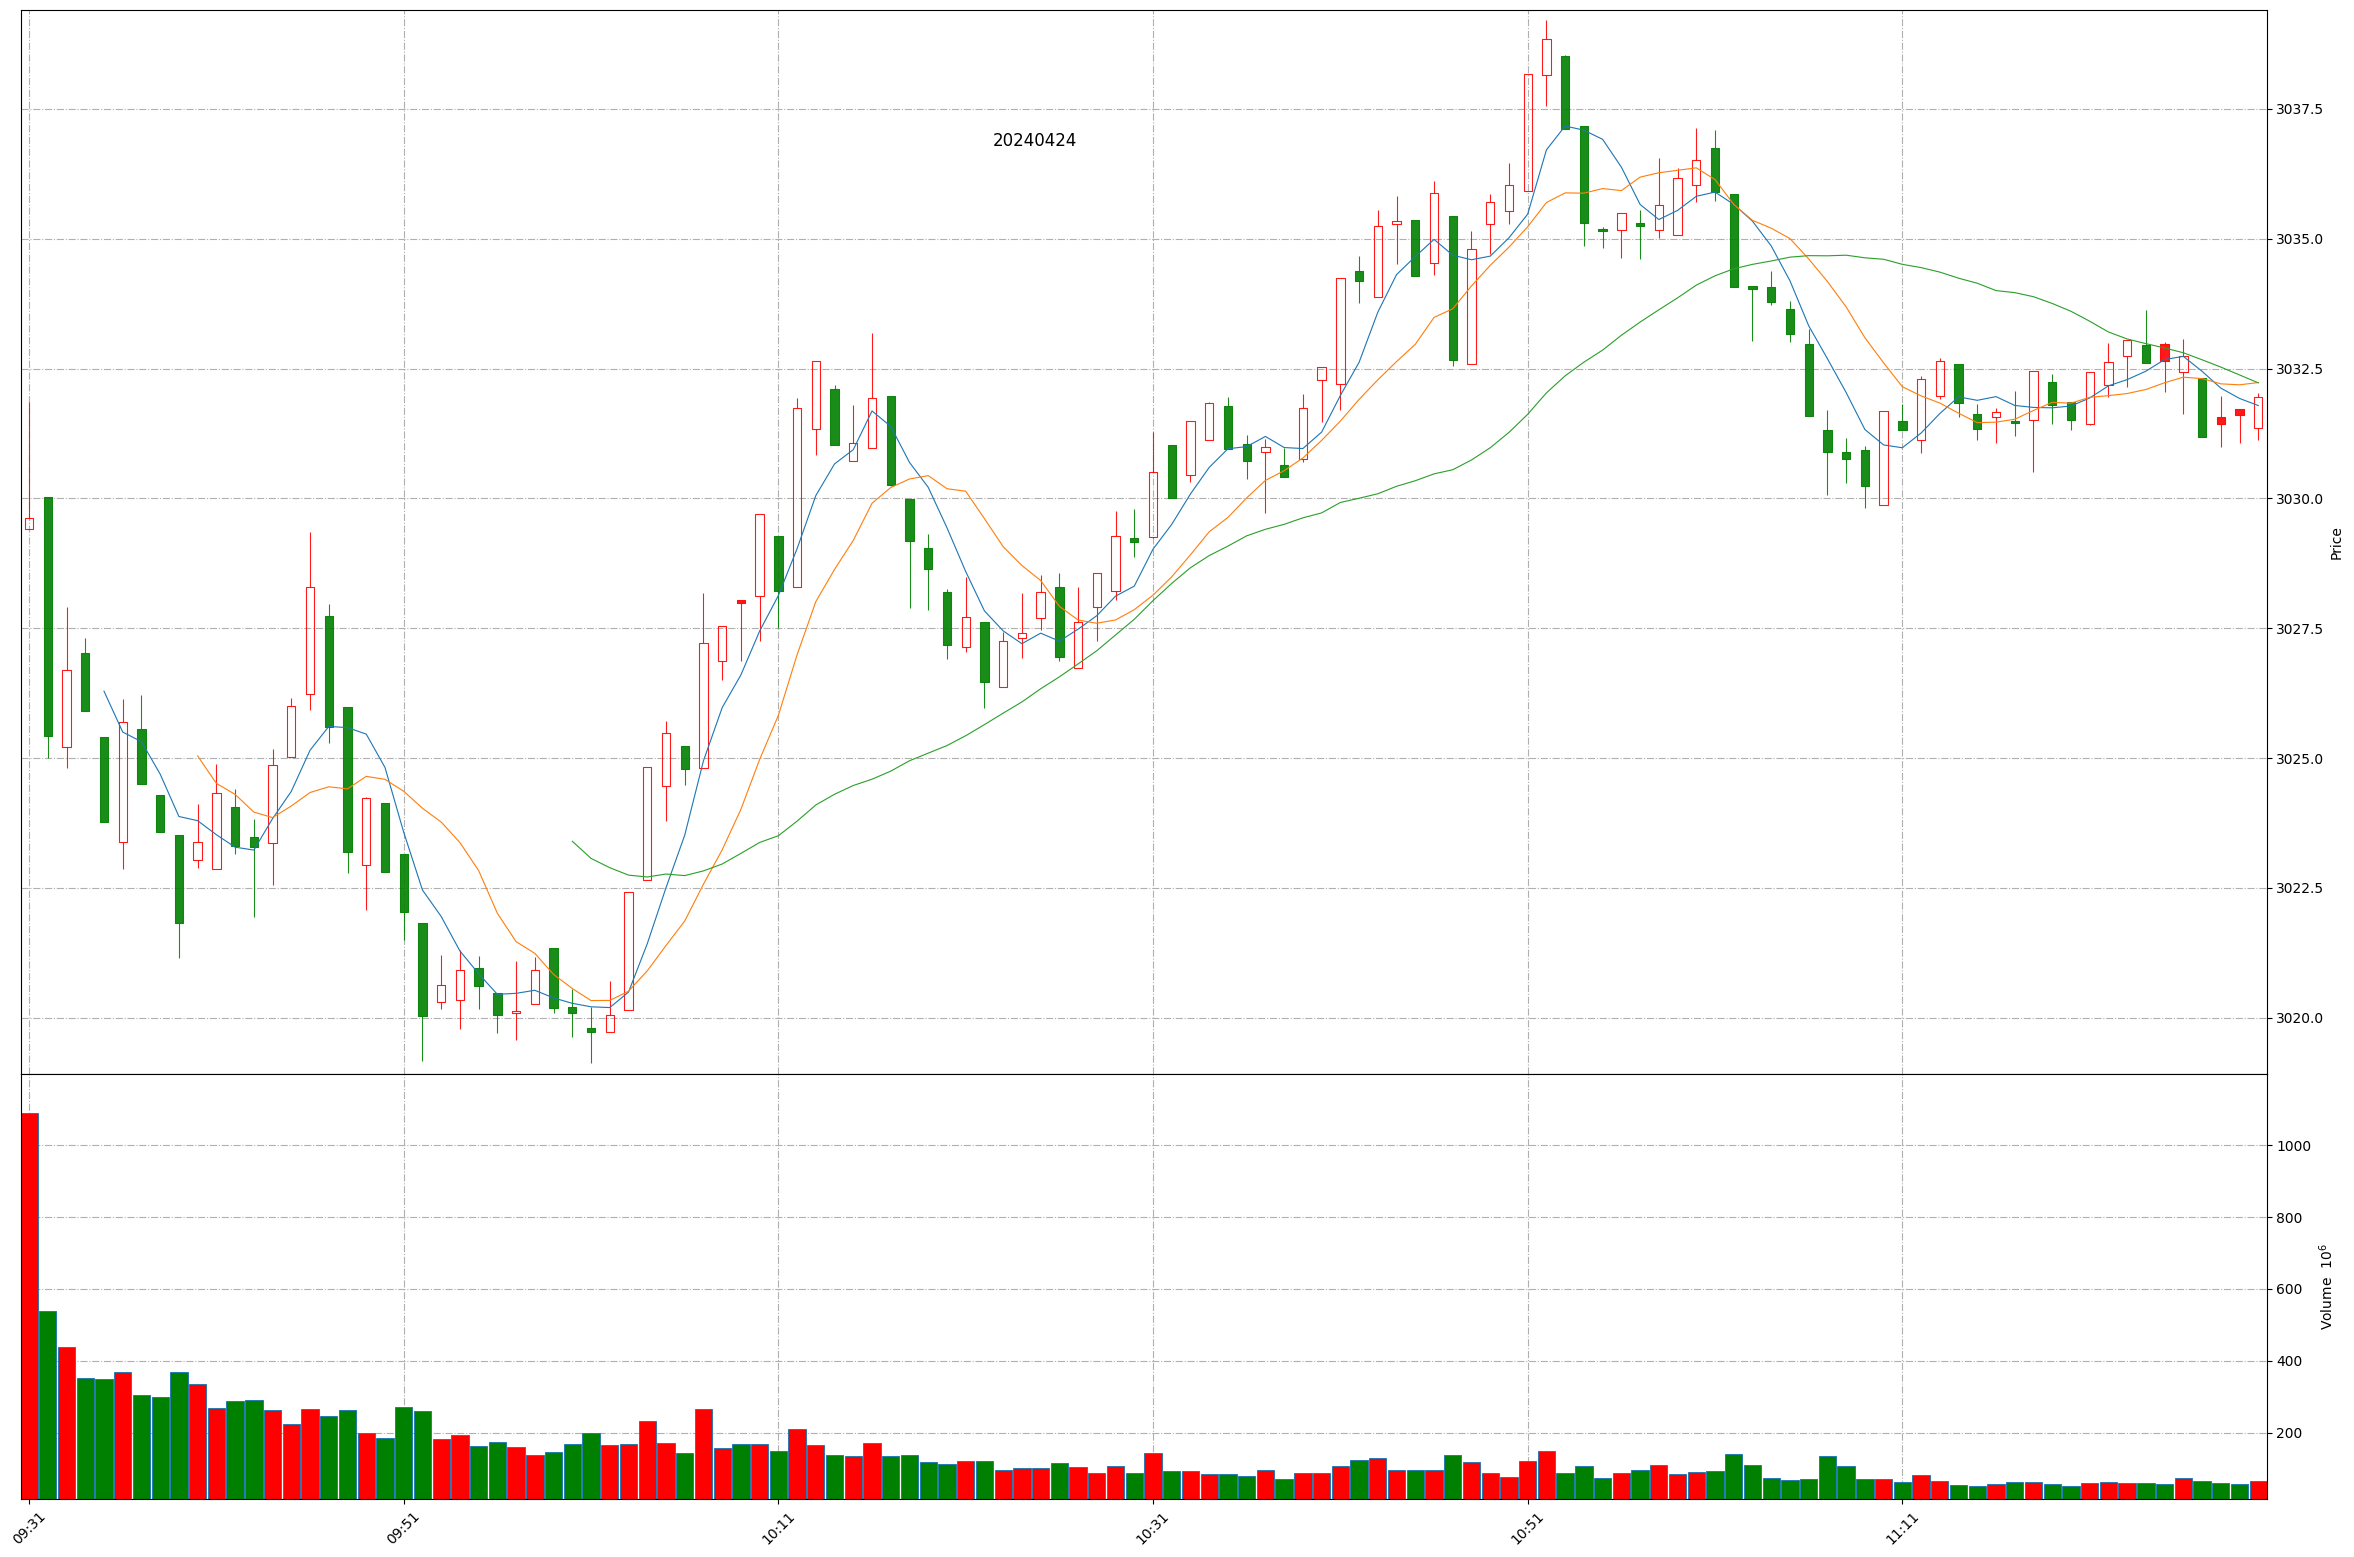
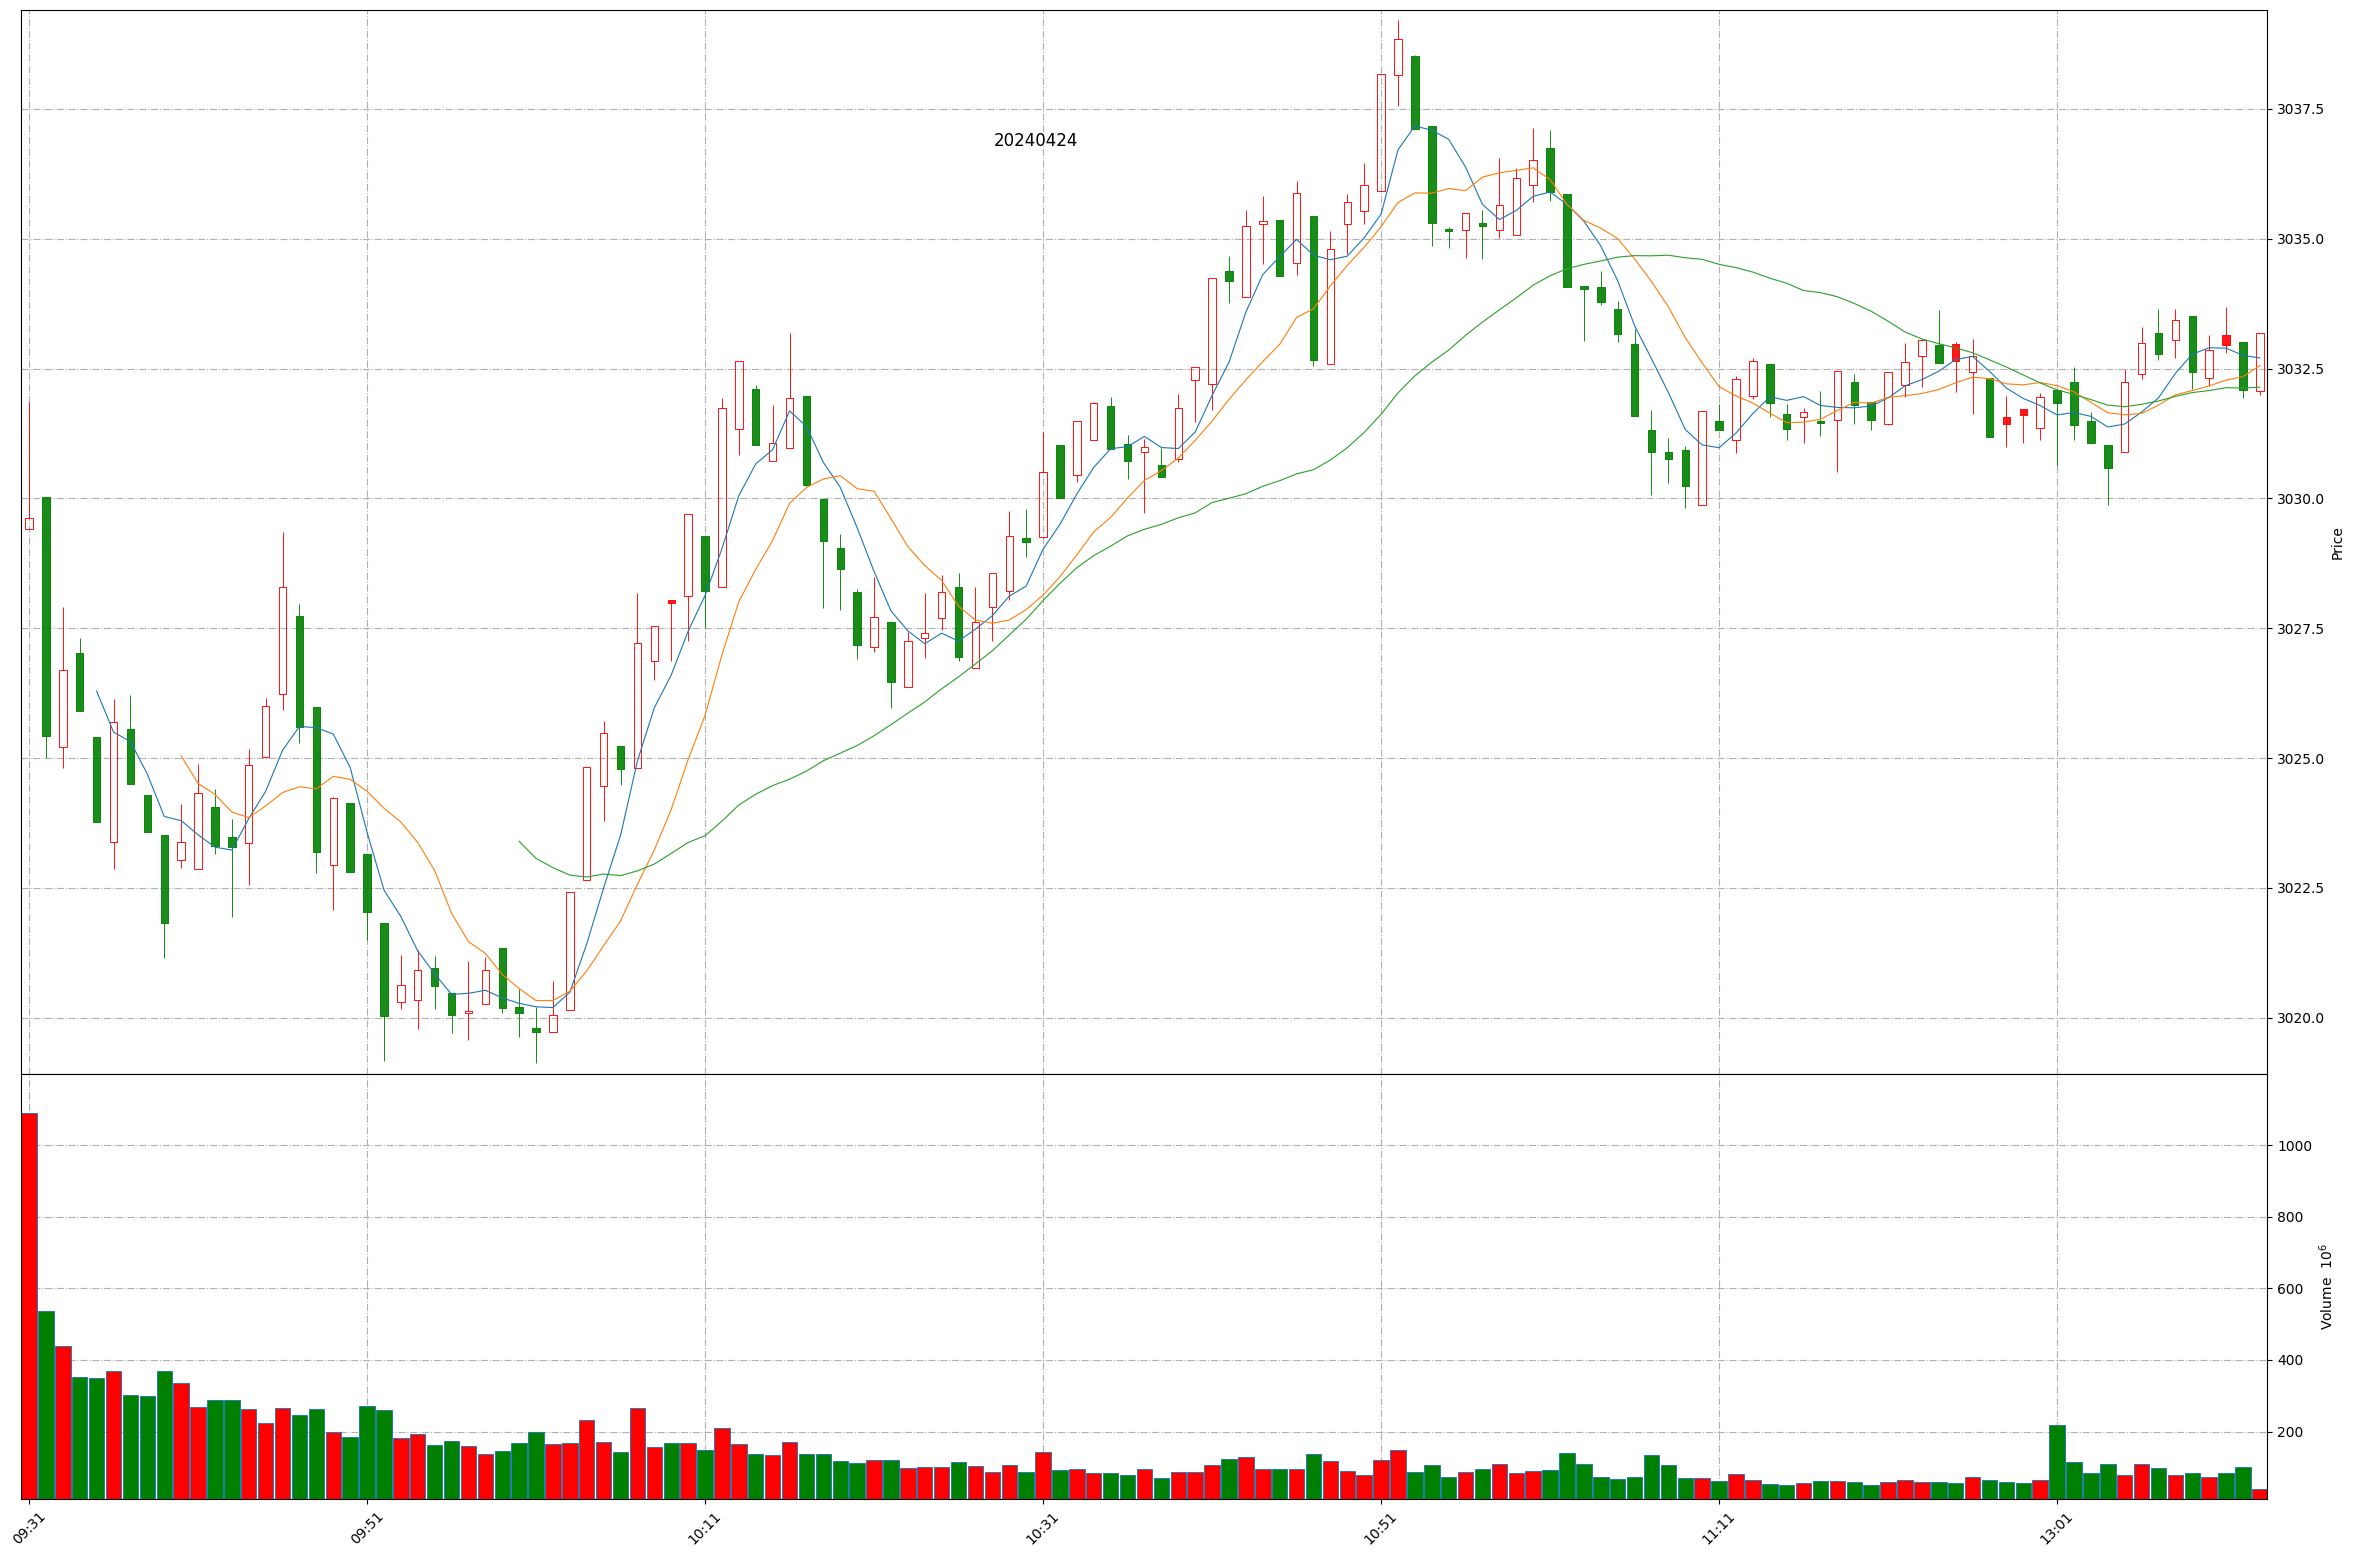
Github action update at 2024-04-24 13:12:55.

diff --git a/README.md b/README.md
@@ -1,11 +1,11 @@
 
 # Daily-A-share-market-quotes 每日 A 股指数（5min 更新）- 20240424
 
-### 上证指数 20240424 11:36
+### 上证指数 20240424 13:12
 ![](./fig/2024/4/20240424-sh000001.png)
 
-### 深证成指 20240424 11:36
+### 深证成指 20240424 13:12
 ![](./fig/2024/4/20240424-sz399001.png)
 
-### 北证50 20240424 11:36
+### 北证50 20240424 13:12
 ![](./fig/2024/4/20240424-bj899050.png)
